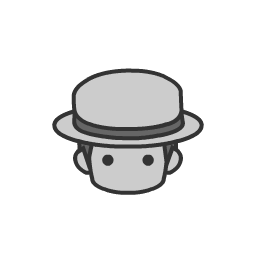
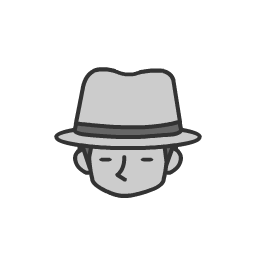
end screen done

Changed region(s): [[0.1875, 0.25, 0.8125, 0.7812]]

diff --git a/src/client/less/End.less b/src/client/less/End.less
@@ -2,6 +2,8 @@
 .end{
     display:none;
     z-index: 10;
+    background-color: rgba(0,0,0,0.5);
+    box-shadow: inset 0 0 180px rgba(0, 0, 0, 0.2);
 
     .__rst{
         position:absolute;
@@ -13,54 +15,53 @@
         color:#eee;
         box-sizing: border-box;
         width:100%;
-        height:100%;
-        font-size: 80px;
-        color:#fff;
+        padding-top:20px;
+        padding-bottom:130px;
+        overflow: hidden;
+    }
+
+    ._icon {
+        width:200px;
+        height:200px;
+        margin:0 auto;
+        background-position: center center;
+        background-size: contain;
+        background-repeat: no-repeat;
+        background-color: rgba(255,255,255,0.2);
+        border-radius: 50%;
+        box-shadow: 0 0 10px #000;
+    }
+
+    ._text{
+        position:absolute;
+        top:240px;
+        left:5%;
+        width:90%;
+        height:100px;
+        background-position: center top;
+        background-size: contain;
+        background-repeat: no-repeat;
     }
 
     ._villager{
         .__rst;
-        text-shadow: 0 0 30px #007dff;
-        ._line{
-            box-shadow: 0 0 30px #007dff;
+        ._icon {
+            background-color:rgba(58, 81, 95, 0.2);
+            background-image: url('../../global/design/Role/villager.png');
+        }
+        ._text {
+            background-image: url('../../global/design/end_villager.png');
         }
     }
 
     ._werewolf{
         .__rst;
-        text-shadow: 0 0 30px #8f3838;
-        ._line{
-            box-shadow: 0 0 30px #8f3838;
+        ._icon {
+            background-color:rgba(80, 48, 48, 0.2);
+            background-image: url('../../global/design/Role/werewolf.png');
         }
-    }
-
-    ._winner{
-        position:absolute;
-        top:50%;
-        left:0;
-        width:100%;
-        line-height: 120px;
-        font-size:70px;
-        margin-top:-90px;
-    }
-
-    ._line{
-        position:absolute;
-        top:50%;
-        left:5%;
-        width:90%;
-        height:1px;
-        background-color: #444;
-        margin-top:17px;
-    }
-
-    ._win{
-        position:absolute;
-        top:50%;
-        left:0;
-        width:100%;
-        line-height: 40px;
-        font-size:40px;
-        margin-top:30px;
+        ._text {
+            background-image: url('../../global/design/end_werewolf.png');
+        }
     }
 }

diff --git a/src/client/js/Render.End.js b/src/client/js/Render.End.js
@@ -7,8 +7,8 @@ var MSGCODE = require('GLOBAL/js/MessageCode.js');
 require('../less/End.less');
 
 var HTML = {
-    villager: '<div class="_villager"><div class="_winner">VILLAGER</div><div class="_line"></div><div class="_win">WIN</div></div>',
-    werewolf: '<div class="_werewolf"><div class="_winner">WEREWOLF</div><div class="_line"></div><div class="_win">WIN</div></div>'
+    villager: '<div class="_villager"><div class="_icon"></div><div class="_text"></div></div>',
+    werewolf: '<div class="_werewolf"><div class="_icon"></div><div class="_text"></div></div>'
 };
 
 var CSS = {

diff --git a/testEnv/client.js b/testEnv/client.js
@@ -92,7 +92,7 @@
       window.msg('2|5|HOST|2|[1,2,0,"1111001101",['+gun+'],[]]');
     },
     end : function (isWin){
-      window.msg('2|5|HOST|2|[1,'+(isWin?1:0)+']');
+      window.msg('2|5|HOST|2|[0,'+(isWin?1:0)+']');
       window.msg('1|6|SERVER|13|null');
     },
     renew : function (){

diff --git a/src/client/js/Main/Render.Main.js b/src/client/js/Main/Render.Main.js
@@ -120,6 +120,9 @@ var Main = function (container) {
         _msg[MSGCODE.HOST.RESULT] = function (dat){
             roleInstance && roleInstance.showRst(dat[1]);
         };
+
+        _msg[MSGCODE.HOST.END] = function (dat){
+        };
     };
 
     var _setupSend = function (){
